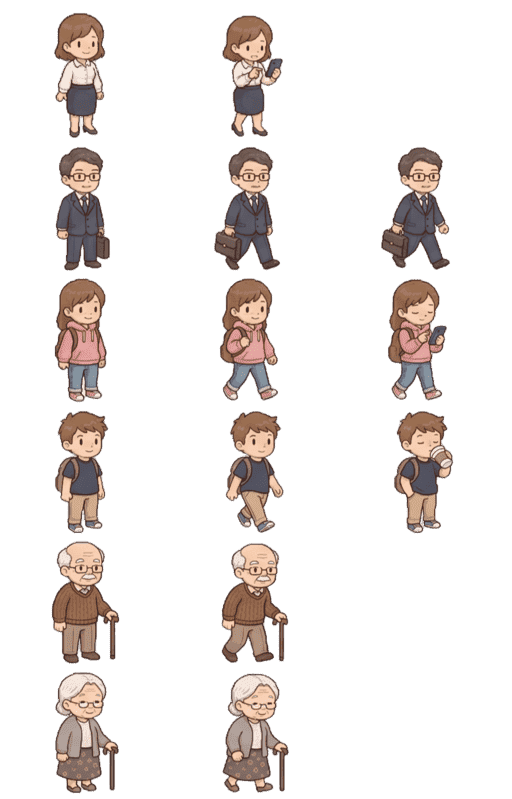
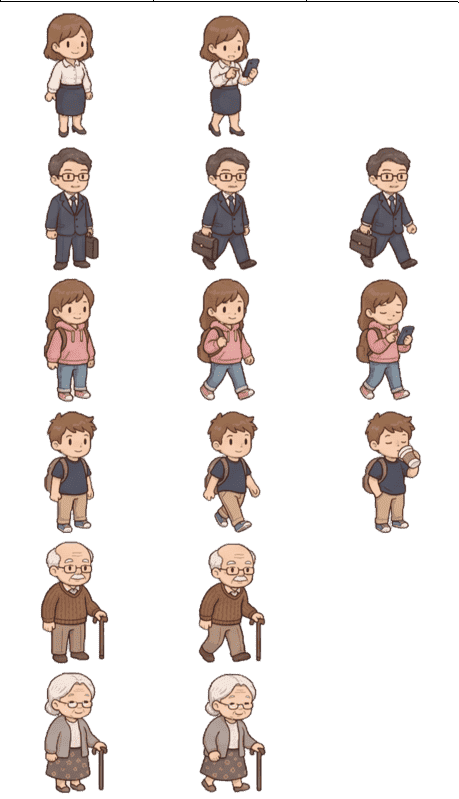
画像調整

Changed region(s): [[0.427, 0.0, 0.5795, 0.9912], [0.0915, 0.0, 0.244, 0.9912], [0.732, 0.1802, 0.915, 0.6909]]

diff --git a/hesokuri-cho/src/config/spriteConfig.ts b/hesokuri-cho/src/config/spriteConfig.ts
@@ -1,7 +1,7 @@
 // src/config/spriteConfig.ts
 import { ImageSourcePropType } from 'react-native';
 
-export type SpriteSourceId = 'tile1' | 'tile2' | 'tile3' | 'tile4' | 'tile5' | 'tile6' | 'tile7' | 'tree1' | 'item1' | 'item2' | 'item3' | 'item4' | 'item5' | 'arrow' | 'chara' | 'levelup' | 'wp1' | 'wp2' | 'wp3' | 'wp4' | 'wp5' | 'wp7' | 'wp8'; // ▼ 追加: 壁紙のソースID
+export type SpriteSourceId = 'tile1' | 'tile2' | 'tile3' | 'tile4' | 'tile5' | 'tile6' | 'tile7' | 'tree1' | 'item1' | 'item2' | 'item3' | 'item4' | 'item5' | 'arrow' | 'chara1' | 'chara2' | 'levelup' | 'wp1' | 'wp2' | 'wp3' | 'wp4' | 'wp5' | 'wp7' | 'wp8'; // ▼ 追加: 壁紙のソースID
 
 export interface SpriteDefinition {
   sourceId: SpriteSourceId;
@@ -37,7 +37,8 @@ export const IMAGE_SOURCES: Record<SpriteSourceId, ImageSourcePropType> = {
   tile6: require('../../assets/images/garden/tile_6.png'),
   tile7: require('../../assets/images/garden/tile_7.png'),
   arrow: require('../../assets/images/garden/arrow.png'),
-  chara: require('../../assets/images/garden/chara.png'),
+  chara1: require('../../assets/images/garden/chara1.png'),
+  chara2: require('../../assets/images/garden/chara2.png'),
   levelup: require('../../assets/images/garden/levelup.png'),
   wp1: require('../../assets/images/garden/bg_1.png'),
   wp2: require('../../assets/images/garden/bg_2.png'),
@@ -243,24 +244,54 @@ export const SPRITE_CONFIG: Record<string, SpriteDefinition> = {
     baseScale: 0.8, isAnimated: true, animationSpeed: 350, maxQuantity: 1,
   },
   'CR-200': { // 子供(男の子)
-    sourceId: 'chara', originalWidth: 455, originalHeight: 384, startX: 16, startY: 157,
-    frameWidth: 50, frameHeight: 76, frameCount: 2, frameSpacingX: 0, offsetX: 2, offsetY: 50,
-    baseScale: 0.4, isAnimated: true, animationSpeed: 500, maxQuantity: 1,
+    sourceId: 'chara2', originalWidth: 459, originalHeight: 396, startX: 0, startY: 3,
+    frameWidth: 153, frameHeight: 129, frameCount: 3, frameSpacingX: 0, offsetX: 0, offsetY: 48,
+    baseScale: 0.7, isAnimated: true, animationSpeed: 500, maxQuantity: 1,
   },
   'CR-201': { // 子供(女の子)
     sourceId: 'item5', originalWidth: 648, originalHeight: 385, startX: 0, startY: 316,
-    frameWidth: 80, frameHeight: 64, frameCount: 4, frameSpacingX: 0, offsetX: 0, offsetY: 44,
+    frameWidth: 80, frameHeight: 64, frameCount: 4, frameSpacingX: 0, offsetX: 0, offsetY: 48,
     baseScale: 0.7, isAnimated: true, animationSpeed: 500, maxQuantity: 1,
   },
-  'CR-210': { // 大人(女)
-    sourceId: 'chara', originalWidth: 455, originalHeight: 384, startX: 0, startY: 234,
-    frameWidth: 58, frameHeight: 76, frameCount: 2, frameSpacingX: 0, offsetX: 0, offsetY: 52,
-    baseScale: 0.6, isAnimated: true, animationSpeed: 2000, maxQuantity: 1,
+  'CR-202': { // パパ
+    sourceId: 'chara2', originalWidth: 459, originalHeight: 396, startX: 0, startY: 133,
+    frameWidth: 153, frameHeight: 132, frameCount: 3, frameSpacingX: 0, offsetX: 0, offsetY: 48,
+    baseScale: 0.7, isAnimated: true, animationSpeed: 600, maxQuantity: 1,
   },
-  'CR-211': { // 大人(男)
-    sourceId: 'chara', originalWidth: 455, originalHeight: 384, startX: 0, startY: 310,
-    frameWidth: 60, frameHeight: 76, frameCount: 2, frameSpacingX: 0, offsetX: 0, offsetY: 46,
-    baseScale: 0.6, isAnimated: true, animationSpeed: 2000, maxQuantity: 1,
+  'CR-203': { // ママ
+    sourceId: 'chara2', originalWidth: 459, originalHeight: 396, startX: 0, startY: 266,
+    frameWidth: 153, frameHeight: 132, frameCount: 3, frameSpacingX: 0, offsetX: 0, offsetY: 48,
+    baseScale: 0.7, isAnimated: true, animationSpeed: 600, maxQuantity: 1,
+  },
+  'CR-204': { // 社会人(男)
+    sourceId: 'chara1', originalWidth: 459, originalHeight: 799, startX: 0, startY: 137,
+    frameWidth: 153, frameHeight: 133, frameCount: 2, frameSpacingX: 0, offsetX: 0, offsetY: 46,
+    baseScale: 0.7, isAnimated: true, animationSpeed: 2000, maxQuantity: 1,
+  },
+  'CR-205': { // 社会人(女)
+    sourceId: 'chara1', originalWidth: 459, originalHeight: 799, startX: 0, startY: 3,
+    frameWidth: 153, frameHeight: 130, frameCount: 2, frameSpacingX: 0, offsetX: 0, offsetY: 46,
+    baseScale: 0.7, isAnimated: true, animationSpeed: 2000, maxQuantity: 1,
+  },
+  'CR-206': { // 大学生(男)
+    sourceId: 'chara1', originalWidth: 459, originalHeight: 799, startX: 0, startY: 410,
+    frameWidth: 153, frameHeight: 133, frameCount: 3, frameSpacingX: 0, offsetX: 0, offsetY: 46,
+    baseScale: 0.7, isAnimated: true, animationSpeed: 2000, maxQuantity: 1,
+  },
+  'CR-207': { // 大学生(女)
+    sourceId: 'chara1', originalWidth: 459, originalHeight: 799, startX: 0, startY: 270,
+    frameWidth: 153, frameHeight: 133, frameCount: 3, frameSpacingX: 0, offsetX: 0, offsetY: 46,
+    baseScale: 0.7, isAnimated: true, animationSpeed: 2000, maxQuantity: 1,
+  },
+  'CR-208': { // おじいちゃん
+    sourceId: 'chara1', originalWidth: 459, originalHeight: 799, startX: 0, startY: 533,
+    frameWidth: 153, frameHeight: 133, frameCount: 2, frameSpacingX: 0, offsetX: 0, offsetY: 46,
+    baseScale: 0.7, isAnimated: true, animationSpeed: 2000, maxQuantity: 1,
+  },
+  'CR-209': { // おばあちゃん
+    sourceId: 'chara1', originalWidth: 459, originalHeight: 799, startX: 0, startY: 666,
+    frameWidth: 153, frameHeight: 133, frameCount: 2, frameSpacingX: 0, offsetX: 0, offsetY: 46,
+    baseScale: 0.7, isAnimated: true, animationSpeed: 2000, maxQuantity: 1,
   },
   'WP-01': {
     sourceId: 'wp1', originalWidth: 976, originalHeight: 1056, startX: 0, startY: 0,

diff --git a/hesokuri-cho/src/constants/gardenItems.ts b/hesokuri-cho/src/constants/gardenItems.ts
@@ -54,10 +54,16 @@ export const ALL_GARDEN_ITEMS: GardenItemMaster[] = [
   { id: 'CR-05', name: 'パンダ', type: 'ornament', cost: 150, isShoppable: true },
   { id: 'CR-06', name: '馬', type: 'ornament', cost: 150, isShoppable: true },
   { id: 'CR-07', name: 'ブルドック', type: 'ornament', cost: 150, isShoppable: true },
-  { id: 'CR-200', name: '子供', type: 'ornament', cost: 100, isShoppable: true },
-  { id: 'CR-201', name: '子供', type: 'ornament', cost: 100, isShoppable: true },
-  { id: 'CR-210', name: '大人(女)', type: 'ornament', cost: 100, isShoppable: true },
-  { id: 'CR-211', name: '大人(男)', type: 'ornament', cost: 100, isShoppable: true },
+  { id: 'CR-200', name: '子供(男の子)', type: 'ornament', cost: 100, isShoppable: true },
+  { id: 'CR-201', name: '子供(女の子)', type: 'ornament', cost: 100, isShoppable: true },
+  { id: 'CR-202', name: 'ママ', type: 'ornament', cost: 100, isShoppable: true },
+  { id: 'CR-203', name: 'パパ', type: 'ornament', cost: 100, isShoppable: true },
+  { id: 'CR-204', name: '社会人(男)', type: 'ornament', cost: 100, isShoppable: true },
+  { id: 'CR-205', name: '社会人(女)', type: 'ornament', cost: 100, isShoppable: true },
+  { id: 'CR-206', name: '大学生(男)', type: 'ornament', cost: 100, isShoppable: true },
+  { id: 'CR-207', name: '大学生(女)', type: 'ornament', cost: 100, isShoppable: true },
+  { id: 'CR-208', name: 'おじいちゃん', type: 'ornament', cost: 100, isShoppable: true },
+  { id: 'CR-209', name: 'おばあちゃん', type: 'ornament', cost: 100, isShoppable: true },
   
   // ▼ 追加: 壁紙アイテム
   { id: 'WP-01', name: '壁紙(星空)', type: 'bg', cost: 100, isShoppable: true },
